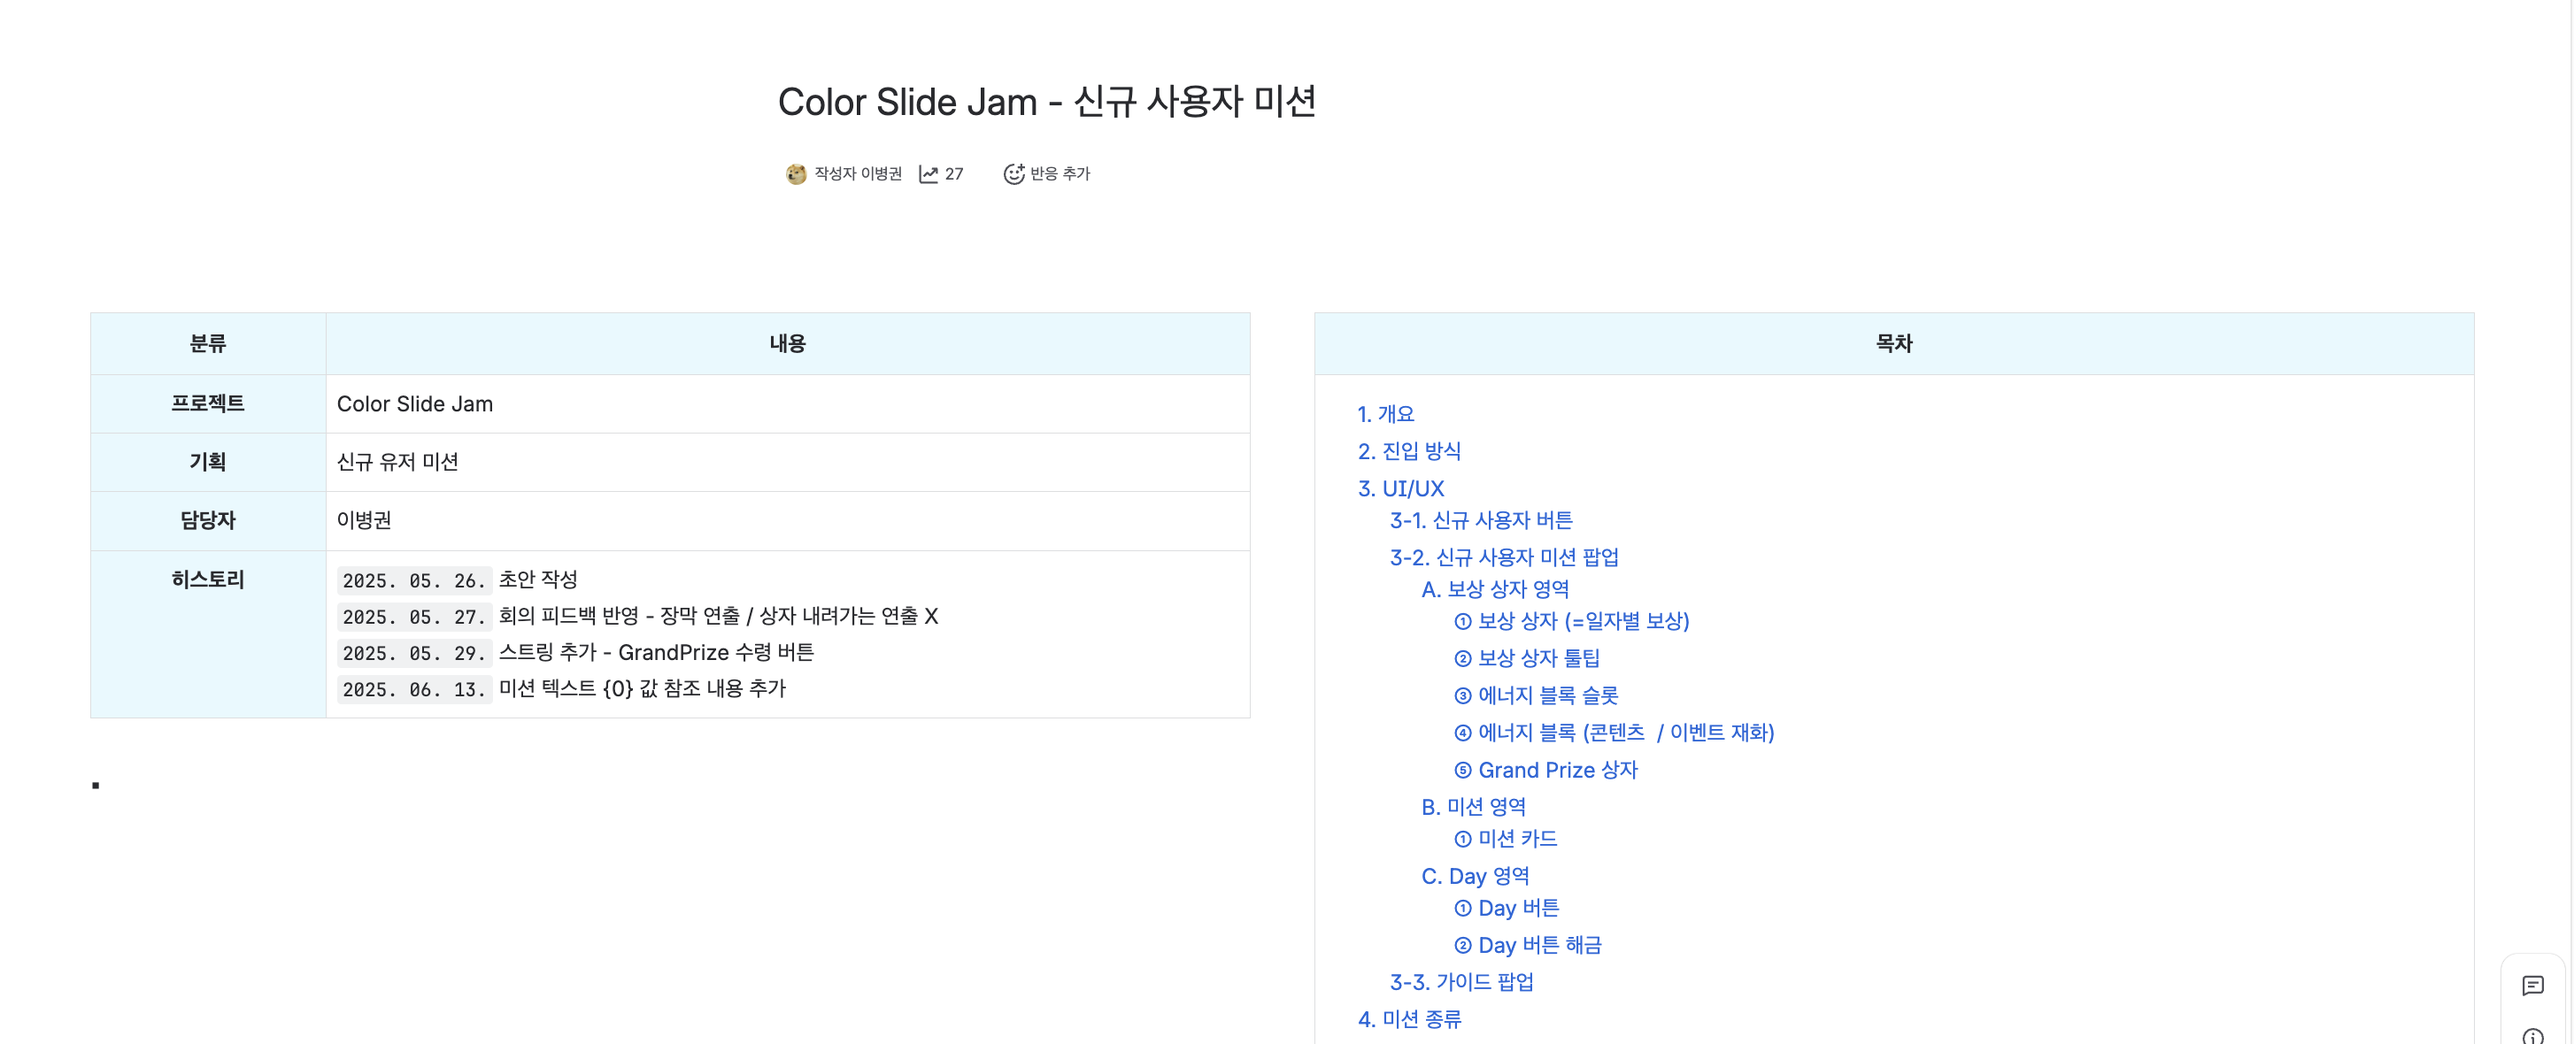
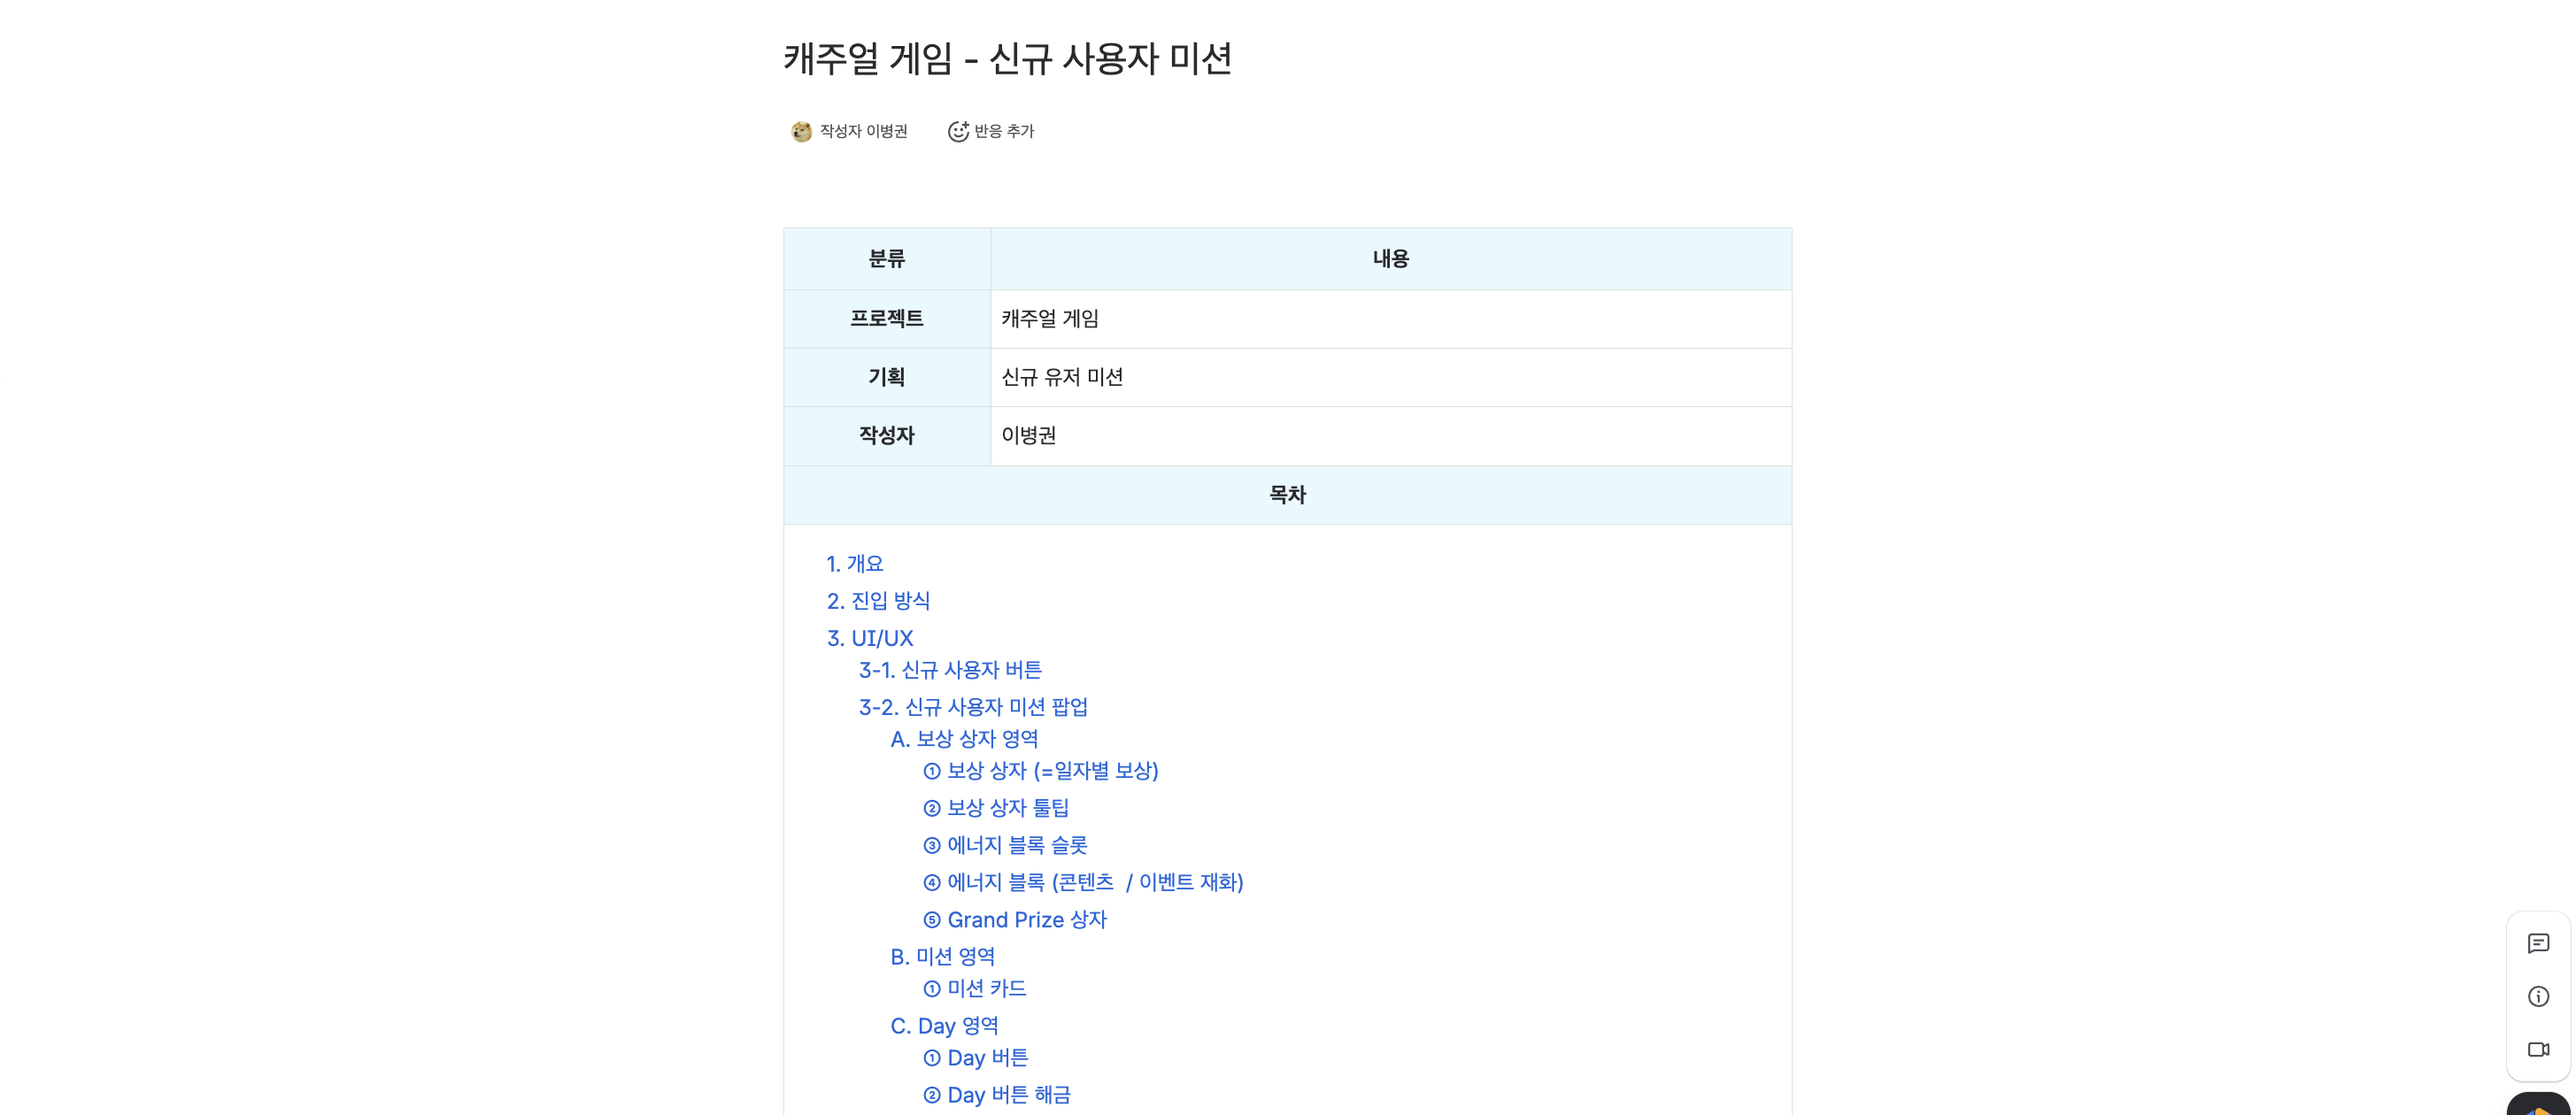
chore: apply current unstaged local changes

diff --git a/index.html b/index.html
@@ -463,6 +463,10 @@
         <section id="documents" class="page">
             <h2>기획 문서</h2>
             <p class="proj-detail-hint">💡 문서를 클릭하면 기획서를 확인할 수 있습니다.</p>
+            <div class="doc-disclaimer">
+                <p>※ 본 자료는 포트폴리오 목적으로만 사용되며, 보안이 필요한 수치는 재구성되었습니다.</p>
+                <p>※ 핵심 기술 및 미출시 프로젝트의 내용은 포함되어 있지 않습니다.</p>
+            </div>
 
             <!-- 콘텐츠 / 시스템 기획서 -->
             <h3 class="doc-section-title">콘텐츠 / 시스템 기획서</h3>
@@ -470,7 +474,7 @@
                 <div class="doc-item" data-doc-id="pinata-party" role="button" tabindex="0">
                     <span class="doc-icon">📕</span>
                     <div class="doc-info">
-                        <span class="doc-name">Color Slide Jam - 피냐타 파티 + 리소스 변경(에셋 번들) 시스템</span>
+                        <span class="doc-name">캐주얼 게임 - 피냐타 파티 + 리소스 변경(에셋 번들) 시스템</span>
                         <span class="doc-meta">콘텐츠 / 시스템 기획</span>
                     </div>
                     <span class="doc-arrow">›</span>
@@ -478,7 +482,7 @@
                 <div class="doc-item" data-doc-id="daily-challenge" role="button" tabindex="0">
                     <span class="doc-icon">📕</span>
                     <div class="doc-info">
-                        <span class="doc-name">Color Slide Jam - 데일리 챌린지</span>
+                        <span class="doc-name">캐주얼 게임 - 데일리 챌린지</span>
                         <span class="doc-meta">콘텐츠 기획</span>
                     </div>
                     <span class="doc-arrow">›</span>
@@ -486,7 +490,7 @@
                 <div class="doc-item" data-doc-id="new-user-mission" role="button" tabindex="0">
                     <span class="doc-icon">📕</span>
                     <div class="doc-info">
-                        <span class="doc-name">Color Slide Jam - 신규 사용자 미션</span>
+                        <span class="doc-name">캐주얼 게임 - 신규 사용자 미션</span>
                         <span class="doc-meta">콘텐츠 기획</span>
                     </div>
                     <span class="doc-arrow">›</span>
@@ -499,7 +503,7 @@
                 <div class="doc-item" data-doc-id="ingame-flow" role="button" tabindex="0">
                     <span class="doc-icon">📗</span>
                     <div class="doc-info">
-                        <span class="doc-name">Color Slide Jam - 인게임 플로우</span>
+                        <span class="doc-name">캐주얼 게임 - 인게임 플로우</span>
                         <span class="doc-meta">인게임 기획</span>
                     </div>
                     <span class="doc-arrow">›</span>
@@ -507,7 +511,7 @@
                 <div class="doc-item" data-doc-id="ingame-control" role="button" tabindex="0">
                     <span class="doc-icon">📗</span>
                     <div class="doc-info">
-                        <span class="doc-name">Color Slide Jam - 블록 조작 / 분쇄</span>
+                        <span class="doc-name">캐주얼 게임 - 블록 조작 / 분쇄</span>
                         <span class="doc-meta">인게임 기획</span>
                     </div>
                     <span class="doc-arrow">›</span>

diff --git a/script.js b/script.js
@@ -78,35 +78,35 @@ setInterval(renderCareerDurations, 60 * 1000);
 // ===== 기획 문서 오버레이 시스템 =====
 const DOC_DATA = {
     'new-user-mission': {
-        title: 'Color Slide Jam - 신규 사용자 미션',
+        title: '캐주얼 게임 - 신규 사용자 미션',
         folder: 'GameDesignDocs/CSJ-NewUserMission',
         prefix: 'mission_',
         count: 35,
         defaultZoom: 100
     },
     'daily-challenge': {
-        title: 'Color Slide Jam - 데일리 챌린지',
+        title: '캐주얼 게임 - 데일리 챌린지',
         folder: 'GameDesignDocs/CSJ-DailyChallenge',
         prefix: 'daily_',
         count: 50,
         defaultZoom: 80
     },
     'ingame-flow': {
-        title: 'Color Slide Jam - 인게임 플로우',
+        title: '캐주얼 게임 - 인게임 플로우',
         folder: 'GameDesignDocs/CSJ-InGame_InGameFlow',
         prefix: 'ingame_',
         count: 7,
         defaultZoom: 100
     },
     'ingame-control': {
-        title: 'Color Slide Jam - 블록 조작 / 분쇄',
+        title: '캐주얼 게임 - 블록 조작 / 분쇄',
         folder: 'GameDesignDocs/CSJ-InGame_Control',
         prefix: 'control_',
         count: 9,
         defaultZoom: 100
     },
     'pinata-party': {
-        title: 'Color Slide Jam - 피냐타 파티 + 리소스 변경(에셋 번들) 시스템',
+        title: '캐주얼 게임 - 피냐타 파티 + 리소스 변경(에셋 번들) 시스템',
         folder: 'GameDesignDocs/CSJ-PinataParty',
         prefix: 'pinata_',
         count: 45,

diff --git a/style.css b/style.css
@@ -1759,6 +1759,20 @@ footer {
 }
 
 /* ===== 기획 문서 페이지 ===== */
+.doc-disclaimer {
+    background: rgba(255, 255, 255, 0.04);
+    border-left: 3px solid rgba(255, 255, 255, 0.2);
+    padding: 14px 18px;
+    margin: 16px 0 24px;
+    border-radius: 0 8px 8px 0;
+}
+
+.doc-disclaimer p {
+    font-size: 13px;
+    color: rgba(255, 255, 255, 0.45);
+    line-height: 1.8;
+}
+
 .doc-section-title {
     font-size: 16px;
     font-weight: 600;
